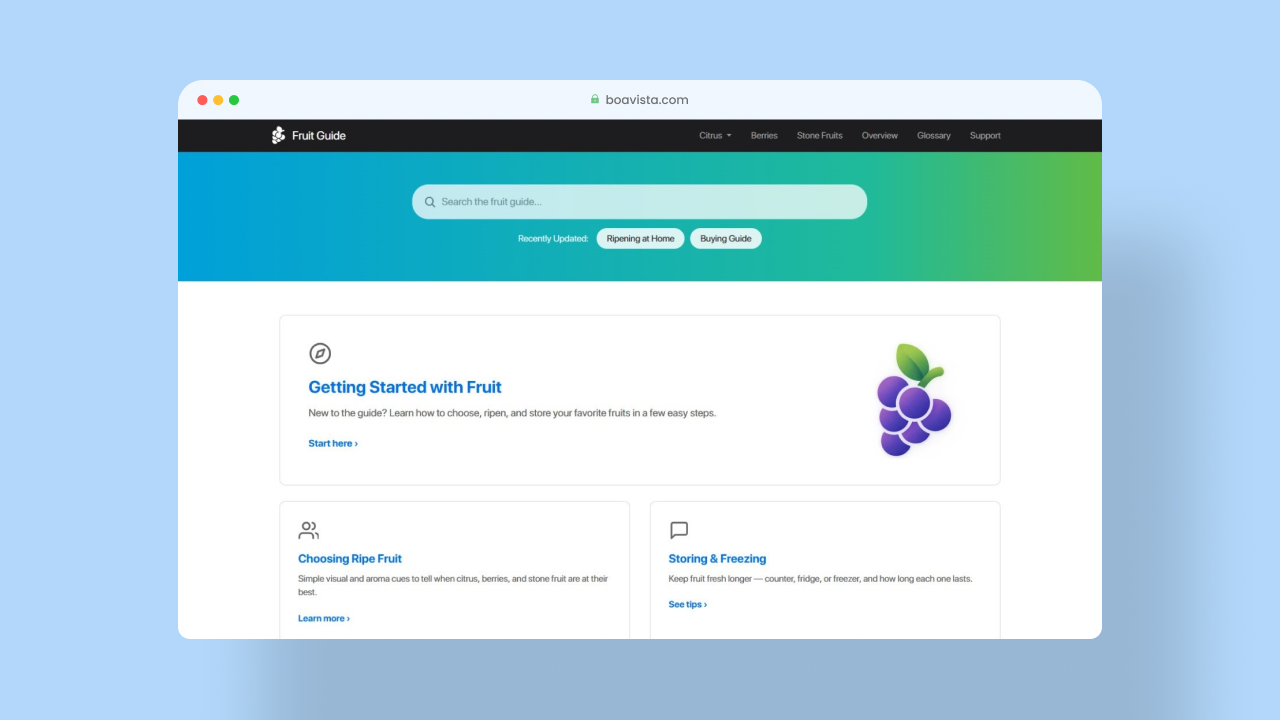
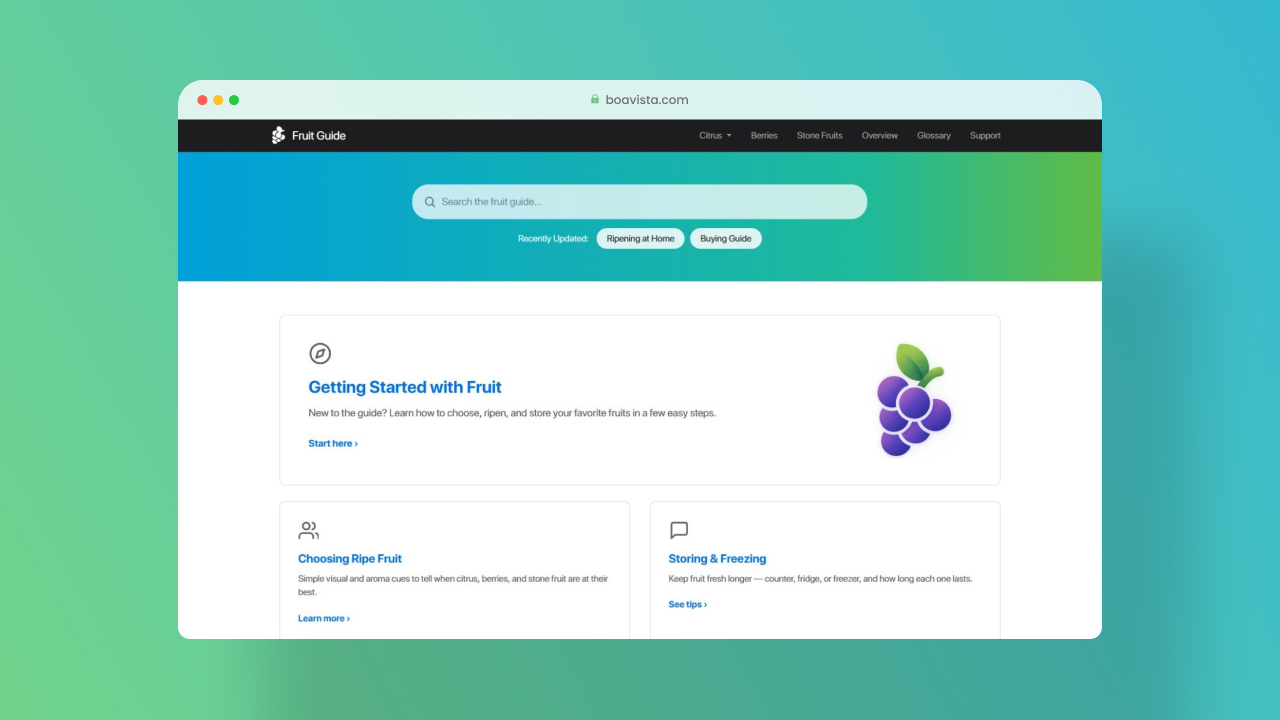
Replace chatbot placeholder with an interactive mock widget
Recreates the real chatbot's UI as a draggable, minimizable, expandable
chat window instead of a pending-screenshot placeholder. Every control
(header buttons, sending a message) surfaces the same honest "this is a
visual mockup" disclaimer rather than faking a real reply. Also swaps in
the updated chat reference screenshot and cover image.

diff --git a/src/pages/project/case-studies/VNTHelp.tsx b/src/pages/project/case-studies/VNTHelp.tsx
@@ -1,7 +1,6 @@
-import { Maximize2, Minimize2 } from 'lucide-react'
-import { useLayoutEffect, useRef, useState } from 'react'
+import { ArrowUp, Maximize2, Minimize2, Minus, Sparkles, X } from 'lucide-react'
+import { type FormEvent, type PointerEvent as ReactPointerEvent, useEffect, useLayoutEffect, useRef, useState } from 'react'
 import ImageLightbox from '@/components/shared/ImageLightbox'
-import { PendingImage } from '@/components/shared/Pending'
 import { asset } from '@/lib/asset'
 import { skillHue } from '../../home/skills'
 
@@ -9,9 +8,22 @@ const ALL_IMAGES = [
   { src: asset('/assets/projects/vnt-help/before-home.png'), alt: 'Old Help home screen, before the redesign' },
 ]
 
-function Figure({ src, alt, onZoom }: { src: string; alt: string; onZoom: (image: { src: string; alt: string }) => void }) {
+function Figure({
+  src,
+  alt,
+  onZoom,
+  narrow,
+}: {
+  src: string
+  alt: string
+  onZoom: (image: { src: string; alt: string }) => void
+  /** Caps the figure at the source image's own (small) native width instead
+   * of stretching it to the full column — avoids upscaling a low-res
+   * screenshot into visible blur. */
+  narrow?: boolean
+}) {
   return (
-    <figure className="kb-project-figure">
+    <figure className={narrow ? 'kb-project-figure kb-project-figure--narrow' : 'kb-project-figure'}>
       <button type="button" className="kb-project-zoom" onClick={() => onZoom({ src, alt })}>
         <img src={src} alt={alt} />
       </button>
@@ -125,11 +137,255 @@ function LaptopEmbed({ src, title, mockUrl }: { src: string; title: string; mock
   )
 }
 
-/** Venturus Help Page & AI Chatbot — case study draft. Chatbot screenshots
- * are still pending Venturus's disclosure/NDA clearance; that spot renders
- * as a marked placeholder (PendingImage) instead of being skipped, so the
- * page's shape is honest about what's still to come rather than looking
- * finished or leaving an unexplained gap. */
+/** Reads `html[data-active-lang]` (see useLang in useHomeEffects.ts) and
+ * stays in sync with the sidebar's EN/PT toggle, without needing its own
+ * useLang() instance — ProjectPage owns the single source of truth and
+ * doesn't pass it down to case-study components, so this observes the DOM
+ * attribute directly instead of drifting out of sync with a stale copy. */
+function useActiveLang(): 'en' | 'pt' {
+  const [active, setActive] = useState<'en' | 'pt'>(
+    () => (document.documentElement.getAttribute('data-active-lang') as 'en' | 'pt') || 'en',
+  )
+
+  useEffect(() => {
+    const observer = new MutationObserver(() => {
+      setActive((document.documentElement.getAttribute('data-active-lang') as 'en' | 'pt') || 'en')
+    })
+    observer.observe(document.documentElement, { attributes: true, attributeFilter: ['data-active-lang'] })
+    return () => observer.disconnect()
+  }, [])
+
+  return active
+}
+
+const CHATMOCK_NOTICE = {
+  en: "This is a visual mockup, not a functional chat.",
+  pt: 'Isso é um mockup visual, não um chat funcional.',
+}
+
+interface ChatmockDrag {
+  pointerId: number
+  offsetX: number
+  offsetBottom: number
+  frameLeft: number
+  frameBottom: number
+  frameWidth: number
+  frameHeight: number
+  cardWidth: number
+  cardHeight: number
+}
+
+/** Recreation of the real chatbot's UI as a working (if canned) chat, rather
+ * than a static screenshot. Sending a message and the header's close button
+ * both lead to the same honest disclaimer; minimize, expand and dragging the
+ * window around its frame are real, not mocked. */
+function ChatbotMock() {
+  const lang = useActiveLang()
+  const [messages, setMessages] = useState<Array<{ role: 'user' | 'bot'; text: string }>>([])
+  const [input, setInput] = useState('')
+  const [noticeVisible, setNoticeVisible] = useState(false)
+  const [minimized, setMinimized] = useState(false)
+  const [expanded, setExpanded] = useState(false)
+  const [pos, setPos] = useState<{ left: number; bottom: number } | null>(null)
+  const [dragging, setDragging] = useState(false)
+  const noticeTimeout = useRef<ReturnType<typeof setTimeout> | null>(null)
+  const bodyRef = useRef<HTMLDivElement>(null)
+  const frameRef = useRef<HTMLDivElement>(null)
+  const cardRef = useRef<HTMLDivElement>(null)
+  const dragRef = useRef<ChatmockDrag | null>(null)
+
+  useEffect(() => {
+    bodyRef.current?.scrollTo({ top: bodyRef.current.scrollHeight, behavior: 'smooth' })
+  }, [messages])
+
+  useEffect(() => () => {
+    if (noticeTimeout.current) clearTimeout(noticeTimeout.current)
+  }, [])
+
+  // Starts the window docked to the frame's bottom-right corner — measured
+  // once (after the CSS inset it's rendered with initially) and locked into
+  // an explicit left/bottom pixel position, so dragging has a real
+  // coordinate to work from instead of fighting the right/bottom inset.
+  // Anchoring by `bottom` (not `top`) matters once minimize can shrink the
+  // card's height: with `top` fixed, a shorter card would rise away from
+  // the bottom-right dock point it started at; with `bottom` fixed, it
+  // collapses straight down into that corner instead, like a real chat
+  // widget's minimized bar.
+  useLayoutEffect(() => {
+    if (pos || expanded) return
+    const frame = frameRef.current
+    const card = cardRef.current
+    if (!frame || !card) return
+    const frameRect = frame.getBoundingClientRect()
+    const cardRect = card.getBoundingClientRect()
+    setPos({ left: cardRect.left - frameRect.left, bottom: frameRect.bottom - cardRect.bottom })
+  }, [pos, expanded])
+
+  function flashNotice() {
+    setNoticeVisible(true)
+    if (noticeTimeout.current) clearTimeout(noticeTimeout.current)
+    noticeTimeout.current = setTimeout(() => setNoticeVisible(false), 2800)
+  }
+
+  function handleSend(e: FormEvent) {
+    e.preventDefault()
+    const text = input.trim()
+    if (!text) return
+    setInput('')
+    setMessages((prev) => [...prev, { role: 'user', text }, { role: 'bot', text: CHATMOCK_NOTICE[lang] }])
+  }
+
+  function handleDragPointerDown(e: ReactPointerEvent<HTMLDivElement>) {
+    if ((e.target as HTMLElement).closest('.kb-chatmock__action')) return
+    const frame = frameRef.current
+    const card = cardRef.current
+    if (!frame || !card || expanded) return
+    const frameRect = frame.getBoundingClientRect()
+    const cardRect = card.getBoundingClientRect()
+    dragRef.current = {
+      pointerId: e.pointerId,
+      offsetX: e.clientX - cardRect.left,
+      offsetBottom: cardRect.bottom - e.clientY,
+      frameLeft: frameRect.left,
+      frameBottom: frameRect.bottom,
+      frameWidth: frameRect.width,
+      frameHeight: frameRect.height,
+      cardWidth: cardRect.width,
+      cardHeight: cardRect.height,
+    }
+    e.currentTarget.setPointerCapture(e.pointerId)
+    setDragging(true)
+  }
+
+  function handleDragPointerMove(e: ReactPointerEvent<HTMLDivElement>) {
+    const drag = dragRef.current
+    if (!drag || drag.pointerId !== e.pointerId) return
+    const maxLeft = Math.max(drag.frameWidth - drag.cardWidth, 0)
+    const maxBottom = Math.max(drag.frameHeight - drag.cardHeight, 0)
+    const left = Math.min(Math.max(e.clientX - drag.frameLeft - drag.offsetX, 0), maxLeft)
+    const bottom = Math.min(Math.max(drag.frameBottom - e.clientY - drag.offsetBottom, 0), maxBottom)
+    setPos({ left, bottom })
+  }
+
+  function handleDragPointerUp(e: ReactPointerEvent<HTMLDivElement>) {
+    if (dragRef.current?.pointerId !== e.pointerId) return
+    dragRef.current = null
+    setDragging(false)
+  }
+
+  const cardClassName = [
+    'kb-chatmock',
+    minimized && 'kb-chatmock--minimized',
+    expanded && 'kb-chatmock--expanded',
+    dragging && 'kb-chatmock--dragging',
+  ]
+    .filter(Boolean)
+    .join(' ')
+
+  const cardStyle = expanded
+    ? undefined
+    : pos
+      ? { left: pos.left, bottom: pos.bottom }
+      : { right: 20, bottom: 20 }
+
+  return (
+    <div className="kb-project-figure kb-project-figure--chatmock" ref={frameRef}>
+      <div className={cardClassName} ref={cardRef} style={cardStyle}>
+        <div className="kb-chatmock__notice" aria-live="polite" data-visible={noticeVisible}>
+          {CHATMOCK_NOTICE[lang]}
+        </div>
+
+        <div
+          className="kb-chatmock__header"
+          onPointerDown={handleDragPointerDown}
+          onPointerMove={handleDragPointerMove}
+          onPointerUp={handleDragPointerUp}
+          onPointerCancel={handleDragPointerUp}
+        >
+          <button type="button" className="kb-chatmock__action" onClick={flashNotice} aria-label="Close">
+            <X size={18} aria-hidden="true" />
+          </button>
+          <span className="kb-chatmock__icon" aria-hidden="true">
+            <Sparkles size={13} />
+          </span>
+          <span className="kb-chatmock__title">AI Assistant</span>
+          <button
+            type="button"
+            className="kb-chatmock__action"
+            onClick={() => setMinimized((m) => !m)}
+            aria-label={minimized ? 'Restore' : 'Minimize'}
+            aria-pressed={minimized}
+          >
+            <Minus size={17} aria-hidden="true" />
+          </button>
+          <button
+            type="button"
+            className="kb-chatmock__action"
+            onClick={() => setExpanded((ex) => !ex)}
+            aria-label={expanded ? 'Shrink' : 'Expand'}
+            aria-pressed={expanded}
+          >
+            {expanded ? <Minimize2 size={15} aria-hidden="true" /> : <Maximize2 size={15} aria-hidden="true" />}
+          </button>
+        </div>
+
+        <p className="kb-chatmock__note">
+          <span data-lang="en">Note: AI Assistant is AI-powered and may occasionally be incorrect.</span>
+          <span data-lang="pt">Nota: o AI Assistant é alimentado por IA e pode, ocasionalmente, errar.</span>
+        </p>
+
+        <div className="kb-chatmock__body" ref={bodyRef}>
+          <div className="kb-chatmock__turn">
+            <span className="kb-chatmock__sender">AI Assistant</span>
+            <p className="kb-chatmock__bubble">
+              <span data-lang="en">
+                Welcome to <strong>AI Assistant</strong>. This assistant answers questions about{' '}
+                <strong>Fruit Guide</strong> using the official{' '}
+                <span className="kb-chatmock__link">User Guide (Help) documentation</span>. It can explain
+                features, terminology, roles and workflows.
+              </span>
+              <span data-lang="pt">
+                Bem-vindo ao <strong>AI Assistant</strong>. Este assistente responde perguntas sobre{' '}
+                <strong>Fruit Guide</strong> usando a documentação oficial do{' '}
+                <span className="kb-chatmock__link">Guia do Usuário (Help)</span>. Ele pode explicar
+                funcionalidades, terminologia, papéis e fluxos de trabalho.
+              </span>
+            </p>
+          </div>
+
+          {messages.map((message, i) => (
+            <div className="kb-chatmock__turn" key={i}>
+              {message.role === 'bot' && <span className="kb-chatmock__sender">AI Assistant</span>}
+              <p
+                className={
+                  message.role === 'user' ? 'kb-chatmock__bubble kb-chatmock__bubble--user' : 'kb-chatmock__bubble'
+                }
+              >
+                {message.text}
+              </p>
+            </div>
+          ))}
+        </div>
+
+        <form className="kb-chatmock__inputrow" onSubmit={handleSend}>
+          <input
+            type="text"
+            className="kb-chatmock__input"
+            value={input}
+            onChange={(e) => setInput(e.target.value)}
+            placeholder={lang === 'pt' ? 'Digite sua pergunta...' : 'Type your question...'}
+            aria-label={lang === 'pt' ? 'Digite sua pergunta' : 'Type your question'}
+          />
+          <button type="submit" className="kb-chatmock__send" disabled={!input.trim()} aria-label="Send">
+            <ArrowUp size={16} aria-hidden="true" />
+          </button>
+        </form>
+      </div>
+    </div>
+  )
+}
+
+/** Venturus Help Page & AI Chatbot — case study. */
 export default function VNTHelp() {
   const [lightboxIndex, setLightboxIndex] = useState<number | null>(null)
   const openLightbox = ({ src }: { src: string; alt: string }) =>
@@ -397,10 +653,7 @@ export default function VNTHelp() {
           </span>
         </p>
 
-        <PendingImage>
-          <span data-lang="en">Chatbot screenshots pending from Venturus.</span>
-          <span data-lang="pt">Capturas de tela do chatbot pendentes da Venturus.</span>
-        </PendingImage>
+        <ChatbotMock />
 
         <h3>
           <span data-lang="en">Guidelines</span>

diff --git a/src/styles/kb-site.css b/src/styles/kb-site.css
@@ -642,6 +642,10 @@ html[data-active-lang="pt"] .kb-sidebar__lang .kb-lang-switch__knob{transform:tr
 .kb-project-figure img{display:block;width:100%;height:auto;object-fit:contain;border-radius:8px;margin:0 auto}
 .kb-project-figure figcaption{margin-top:12px;font-family:var(--font-mono);font-size:13px;letter-spacing:.04em;color:rgba(255,255,255,.72);text-align:center}
 .kb-project-figure-row{display:grid;grid-template-columns:repeat(auto-fit,minmax(min(100%,300px),1fr));gap:clamp(16px,2.4vw,24px);margin-top:clamp(28px,3.6vw,40px)}
+/* Caps a figure at a source screenshot's own small native width, centered,
+   instead of the default full-width stretch - keeps a low-res image from
+   being upscaled into visible blur. */
+.kb-project-figure--narrow{max-width:360px;margin-left:auto;margin-right:auto}
 .kb-project-figure-row .kb-project-figure{margin-top:0}
 
 /* Every image (besides the page header) opens full-size on click - a plain
@@ -729,6 +733,75 @@ html[data-active-lang="pt"] .kb-sidebar__lang .kb-lang-switch__knob{transform:tr
 .kb-project-embed__fullscreen{flex-shrink:0;display:flex;align-items:center;gap:7px;padding:7px 14px;border:none;border-radius:999px;font-size:13px;font-weight:var(--weight-semibold);line-height:1;color:var(--kb-white);cursor:pointer;background:linear-gradient(130deg,rgba(254,106,216,.85),rgba(183,140,245,.85));box-shadow:0 0 14px rgba(254,106,216,.4);transition:transform var(--duration-fast) var(--ease-soft),background var(--duration-base) var(--ease-soft),color var(--duration-base) var(--ease-soft),box-shadow var(--duration-base) var(--ease-soft)}
 .kb-project-embed__fullscreen:hover,.kb-project-embed__fullscreen:focus-visible{transform:translateY(-1px);background:var(--kb-butter);color:var(--kb-void);box-shadow:var(--glow-butter)}
 .kb-project-embed:fullscreen .kb-project-embed__chrome{height:40px}
+
+/* ---------- Chatbot mock ----------
+   A light, product-chrome-styled card (not the dark site theme — it's
+   meant to read as a screenshot of the real product UI) recreating the
+   chatbot's own interface well enough to type into, instead of a static
+   screenshot. Sending a message and the header's close button both lead to
+   the same honest disclaimer; minimize, expand and dragging the window
+   around its frame are real, not mocked. */
+/* The frame is the gradient mat every other figure on this page uses, but
+   full width and tall enough to give the floating window room to be
+   dragged around in, instead of shrinking to match the card like
+   .kb-project-figure--narrow does. Tall enough for the card's own taller
+   default height (below) plus real drag room above/below it. */
+.kb-project-figure--chatmock{position:relative;min-height:clamp(580px,58vw,700px)}
+/* A standard chat-widget proportion (narrower than tall) rather than the
+   wide, short card this started as. */
+.kb-chatmock{position:absolute;display:flex;flex-direction:column;width:min(380px,100%);background:#fff;border-radius:14px;overflow:hidden;box-shadow:0 20px 50px rgba(8,1,42,.45);font-family:-apple-system,BlinkMacSystemFont,"Segoe UI",Roboto,sans-serif;font-size:15px;color:#1c1c1e}
+.kb-chatmock--dragging{box-shadow:0 28px 64px rgba(8,1,42,.55);cursor:grabbing}
+/* `inset:0` on a position:absolute child resolves against the frame's
+   padding box, so this fills exactly the frame's own inner area (respecting
+   .kb-project-figure's existing padding) without needing a second, redundant
+   margin value to match it. `width`/`height` are cleared explicitly since an
+   absolutely positioned box with both inset and an explicit size is
+   over-constrained - left alone, the still-set `width:min(380px,100%)` above
+   would win over the inset and the card wouldn't actually fill the frame. */
+.kb-chatmock--expanded{inset:0;width:auto;height:auto}
+.kb-chatmock--minimized .kb-chatmock__note,.kb-chatmock--minimized .kb-chatmock__body,.kb-chatmock--minimized .kb-chatmock__inputrow{display:none}
+.kb-chatmock__notice{position:absolute;top:8px;left:50%;z-index:2;transform:translate(-50%,-8px);opacity:0;pointer-events:none;max-width:calc(100% - 24px);padding:8px 14px;border-radius:999px;background:var(--kb-void);color:var(--kb-white);font-size:13px;line-height:1.3;text-align:center;box-shadow:0 8px 20px rgba(8,1,42,.35);transition:opacity var(--duration-base) var(--ease-soft),transform var(--duration-base) var(--ease-soft)}
+.kb-chatmock__notice[data-visible="true"]{opacity:1;transform:translate(-50%,0)}
+/* The drag handle - grabbing anything else in the header (the action
+   buttons) is excluded in JS before a drag ever starts. */
+.kb-chatmock__header{display:flex;align-items:center;gap:9px;padding:12px 14px;border-bottom:1px solid #e5e5ea;cursor:grab;touch-action:none}
+.kb-chatmock--dragging .kb-chatmock__header{cursor:grabbing}
+.kb-chatmock--expanded .kb-chatmock__header{cursor:default}
+.kb-chatmock__action{all:unset;display:flex;align-items:center;justify-content:center;width:26px;height:26px;border-radius:6px;color:#8e8e93;cursor:pointer}
+.kb-chatmock__action:hover,.kb-chatmock__action:focus-visible{background:#f2f2f7;color:#1c1c1e}
+.kb-chatmock__icon{display:flex;align-items:center;justify-content:center;width:23px;height:23px;border-radius:6px;background:linear-gradient(135deg,#20ba9a,#61bb46);color:#fff;flex-shrink:0}
+.kb-chatmock__title{flex:1;min-width:0;font-size:15px;font-weight:600;overflow:hidden;text-overflow:ellipsis;white-space:nowrap}
+/* `.kb-project-section p` (19px, --text-body) otherwise outranks a single
+   class here, since a two-part descendant selector beats one class on
+   specificity - these pair with the .kb-chatmock parent to win cleanly
+   instead of reaching for !important. */
+.kb-chatmock .kb-chatmock__note{max-width:none;margin:0;padding:9px 16px;border-bottom:1px solid #e5e5ea;font-size:12.5px;font-style:italic;line-height:1.4;color:#8e8e93;text-align:center}
+.kb-chatmock__body{display:flex;flex-direction:column;gap:14px;max-height:400px;overflow-y:auto;padding:16px;scrollbar-width:thin;scrollbar-color:#c7c7cc #f2f2f7}
+/* Expanded fills the frame via `inset:0` on the card itself, so the body's
+   job changes from "cap my own height" to "take whatever's left after the
+   header/note/input" - flex:1 instead of a second, larger max-height. */
+.kb-chatmock--expanded .kb-chatmock__body{flex:1;max-height:none;min-height:0}
+.kb-chatmock__body::-webkit-scrollbar{width:9px}
+.kb-chatmock__body::-webkit-scrollbar-track{background:#f2f2f7}
+.kb-chatmock__body::-webkit-scrollbar-thumb{background-color:#c7c7cc;border-radius:999px;border:2px solid #f2f2f7}
+.kb-chatmock__turn{display:flex;flex-direction:column;gap:5px}
+.kb-chatmock__sender{font-size:11.5px;font-weight:600;letter-spacing:.02em;color:#8e8e93}
+.kb-chatmock .kb-chatmock__bubble{align-self:flex-start;max-width:92%;margin:0;padding:11px 13px;border-radius:13px;background:#f2f2f7;font-size:14.5px;line-height:1.55;color:#1c1c1e}
+/* Same teal→green gradient as the header icon, not the site's own
+   indigo/magenta accent — the user's own bubble should read as part of the
+   same product chrome as the rest of the widget. */
+.kb-chatmock .kb-chatmock__bubble--user{align-self:flex-end;background:linear-gradient(135deg,#20ba9a,#61bb46);color:#fff}
+.kb-chatmock__link{color:#0071e3;text-decoration:underline;text-underline-offset:2px;cursor:default}
+.kb-chatmock__inputrow{display:flex;align-items:center;gap:10px;padding:12px 14px;border-top:1px solid #e5e5ea}
+.kb-chatmock__input{all:unset;flex:1;min-width:0;font-size:14.5px;color:#1c1c1e}
+.kb-chatmock__input::placeholder{color:#a1a1a6}
+.kb-chatmock__send{all:unset;display:flex;align-items:center;justify-content:center;flex-shrink:0;width:30px;height:30px;border-radius:50%;background:#d1d1d6;color:#fff;cursor:pointer;transition:background var(--duration-fast) var(--ease-soft)}
+.kb-chatmock__send:not(:disabled){background:linear-gradient(135deg,#20ba9a,#61bb46)}
+.kb-chatmock__send:disabled{cursor:default}
+
+@media (max-width:560px){
+  .kb-project-figure--chatmock{min-height:600px}
+}
 
 /* ---------- Nav/footer bar ----------
    Fixed to the top on about/project pages — the persistent piece of chrome
